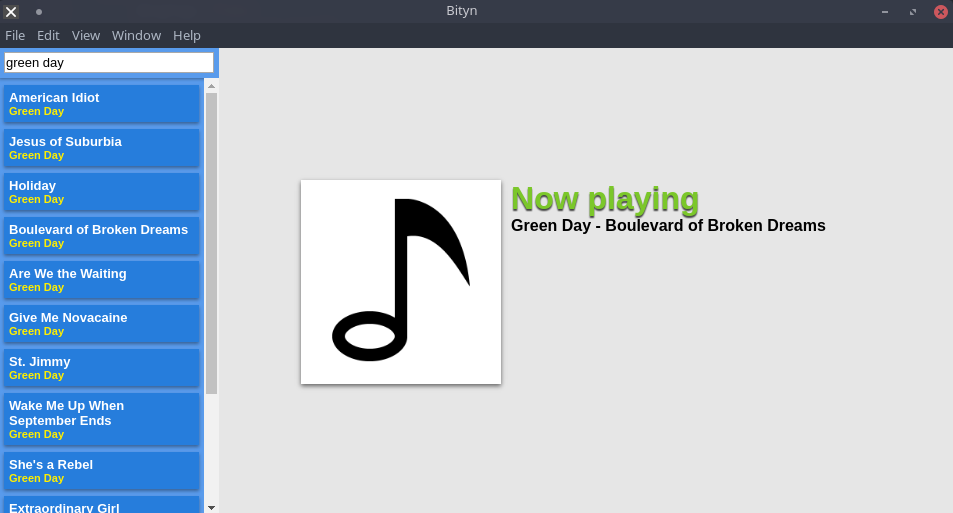
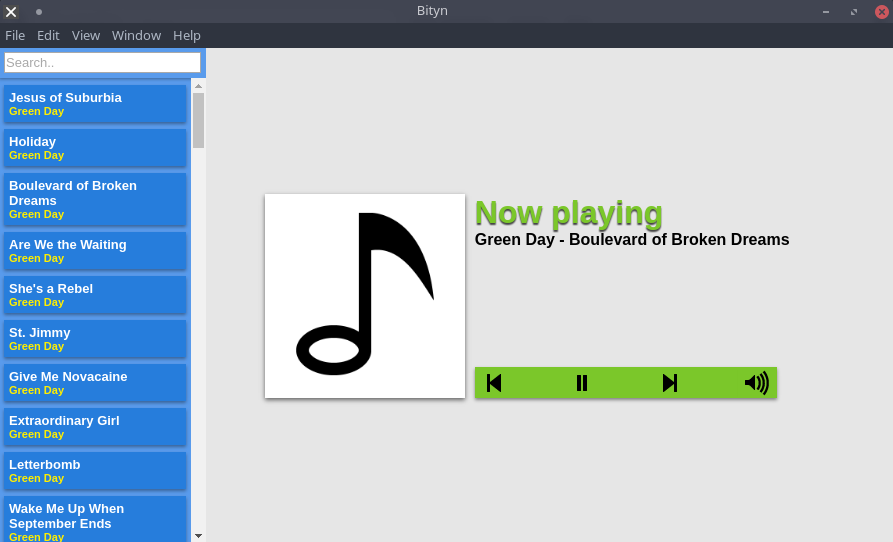
Added pause/play and mute
Added several icons
Removed audio-player as a dependency

diff --git a/lib/window-main.js b/lib/window-main.js
@@ -7,19 +7,25 @@ const mustache = require('mustache');
 const libPath = path.join(__dirname, '..', 'lib');
 const templatesPath = path.join(__dirname, '..', 'templates');
 const templatePath = path.join(templatesPath, 'window-main-track.html');
-const Player = require(path.join(libPath, 'player.js'));
 
 const template = fs.readFileSync(templatePath, 'utf-8');
 const sidebar = $('#sidebar-content');
 const query = $('#search-query');
 const trackTitle = $('#track-title');
+const audio = $('audio')[0];
+const playPause = $('#play-pause');
+const volume = $('#volume');
+playPause.icon = playPause.children()[0];
+volume.icon = volume.children()[0];
+
 const loadedTracks = [];
-const player = new Player();
 mustache.parse(template);
 
 ipcRenderer.on('track-loaded', (event, track) => addTracks([track]));
 ipcRenderer.on('directory-loaded', (event, tracks) => addTracks(tracks));
 query.on('input', () => filterTracks(query.val()));
+playPause.on('click', () => audio.paused ? resume() : pause());
+volume.on('click', () => audio.volume === 0 ? setVolume(100) : setVolume(0));
 
 /**
  * Filters the shown tracks on the sidebar based on a query
@@ -55,9 +61,52 @@ function addTracks(tracks) {
 function renderTrack(track) {
     const renderedContent = mustache.render(template, track);
     const trackElement = $(renderedContent);
-    $(trackElement).on('click', () => {
-        player.playTrack(track);
-        $(trackTitle).text(`${track.artist} - ${track.title}`);
-    });
+    $(trackElement).on('click', () => playTrack(track));
     return trackElement;
+}
+
+/**
+ * Sets the volume
+ * @param {number} percentage - The volume percentage
+ */
+function setVolume(percentage) {
+    if(typeof percentage !== 'number')
+        return;
+
+    percentage = Math.min(100, Math.max(0, percentage));
+    audio.volume = percentage/100;
+    if(percentage === 0)
+        $(volume.icon).removeClass('volume-up volume-down').addClass('mute');
+    else if(percentage <= 50)
+        $(volume.icon).removeClass('volume-up mute').addClass('volume-down');
+    else
+        $(volume.icon).removeClass('mute volume-down').addClass('volume-up');
+}
+
+/**
+ * Pauses the player
+ */
+function pause() {
+    audio.pause();
+    $(playPause.icon).removeClass('pause').addClass('play');
+}
+
+/**
+ * Resumes the player
+ */
+function resume() {
+    if(audio.src) {
+        audio.play();
+        $(playPause.icon).removeClass('play').addClass('pause');
+    }
+}
+
+/**
+ * Plays a track
+ * @param {Track} track - Track to be played
+ */
+function playTrack(track) {
+    audio.src = track.path;
+    $(trackTitle).text(`${track.artist} - ${track.title}`);
+    resume();
 }

diff --git a/templates/window-main.html b/templates/window-main.html
@@ -2,6 +2,8 @@
 <html>
     <head>
         <link rel="stylesheet" type="text/css" href="../styles/window-main.css">
+        <link rel="stylesheet" type="text/css" href="../styles/icons.css">
+        <audio></audio>
     </head>
     <body>
         <div id="sidebar">
@@ -17,8 +19,24 @@
                     <img src="../images/note.png" width="200" height="200"/>
                 </div>
                 <div id="player-controls">
-                    <span id="track-header">Now playing</span>
-                    <span id="track-title"></span>
+                    <div id="player-controls-header">
+                        <span id="track-header">Now playing</span>
+                        <span id="track-title"></span>
+                    </div>
+                    <div id="player-controls-buttons">
+                        <div id="previous" class="media-button">
+                            <span class="icon previous"></span>
+                        </div>
+                        <div id="play-pause" class="media-button">
+                            <span class="icon play"></span>
+                        </div>
+                        <div id="next" class="media-button">
+                            <span class="icon next"></span>
+                        </div>
+                        <div id="volume" class="media-button">
+                            <span class="icon volume-up"></span>
+                        </div>
+                    </div>
                 </div>
             </div>
         </div>

diff --git a/styles/icons.css b/styles/icons.css
@@ -1,0 +1,52 @@
+.icon {
+    transition: 0.2s background-image;
+}
+
+.previous {
+    width: 14px;
+    height: 18px;
+    background-repeat: no-repeat;
+    background-image: url('../images/previous.png');
+}
+
+.next {
+    width: 14px;
+    height: 18px;
+    background-repeat: no-repeat;
+    background-image: url('../images/next.png');
+}
+
+.play {
+    width: 16px;
+    height: 18px;
+    background-repeat: no-repeat;
+    background-image: url('../images/play.png');
+}
+
+.pause {
+    width: 10px;
+    height: 16px;
+    background-repeat: no-repeat;
+    background-image: url('../images/pause.png');
+}
+
+.mute {
+    width: 22px;
+    height: 15px;
+    background-repeat: no-repeat;
+    background-image: url('../images/mute.png');
+}
+
+.volume-up {
+    width: 24px;
+    height: 26px;
+    background-repeat: no-repeat;
+    background-image: url('../images/volume-up.png');
+}
+
+.volume-down {
+    width: 16px;
+    height: 15px;
+    background-repeat: no-repeat;
+    background-image: url('../images/volume-down.png');
+}

diff --git a/styles/window-main.css b/styles/window-main.css
@@ -58,8 +58,24 @@ body {
     width: 370px;
     display: flex;
     flex-direction: column;
-    justify-content: flex-start;
+    justify-content: space-between;
     align-items: flex-start;
+}
+
+#player-controls-header {
+    display: flex;
+    flex-direction: column;
+}
+
+#player-controls-buttons {
+    width: 300px;
+    padding: 0px 1px;
+    display: flex;
+    flex-direction: row;
+    justify-content: space-between;
+    align-items: center;
+    background-color: #7bc72a;
+    box-shadow: 0px 2px 4px 0px rgba(0, 0, 0, 0.44);
 }
 
 #track-header {
@@ -90,6 +106,20 @@ body {
 
 .sidebar-track:hover {
     transition: 0.1s box-shadow;
+    cursor: pointer;
+    box-shadow: 0 4px 7px 1px rgba(0,0,0,0.37);
+}
+
+.media-button {
+    width: 37px;
+    height: 31px;
+    display: flex;
+    align-items: center;
+    justify-content: center;
+    transition: 0.2s box-shadow;
+}
+
+.media-button:hover {
     cursor: pointer;
     box-shadow: 0 4px 7px 1px rgba(0,0,0,0.37);
 }
